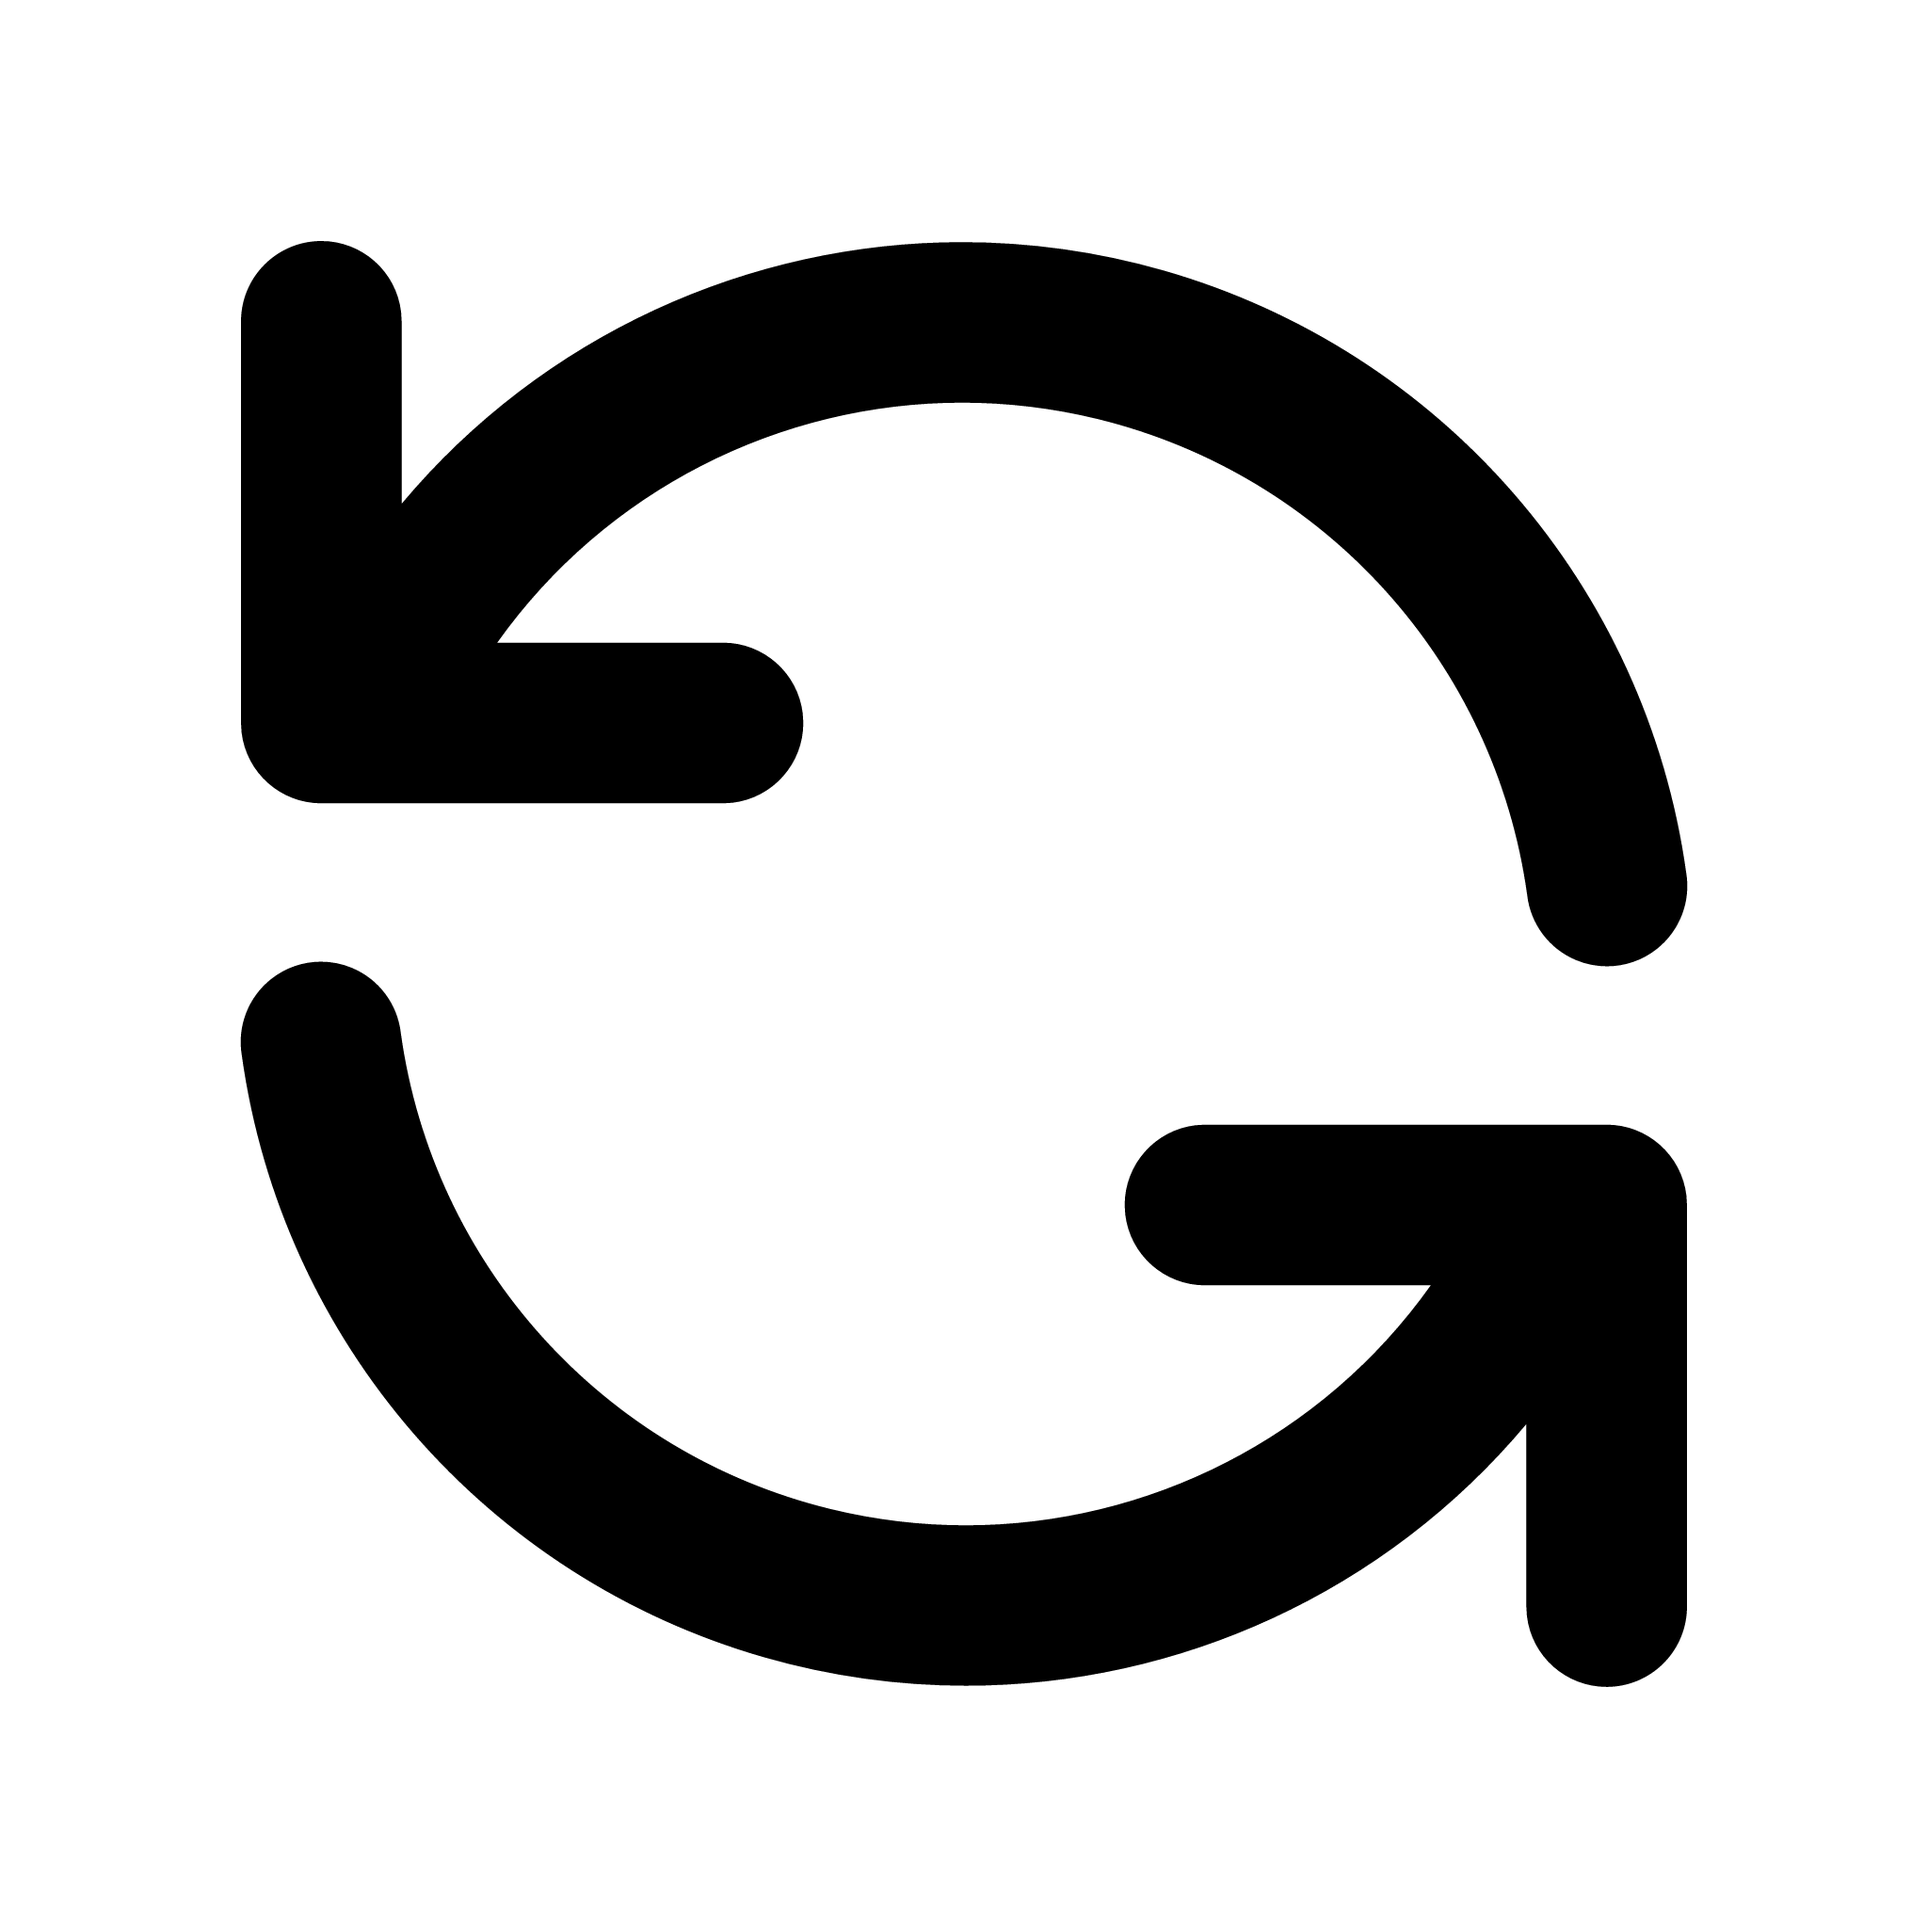
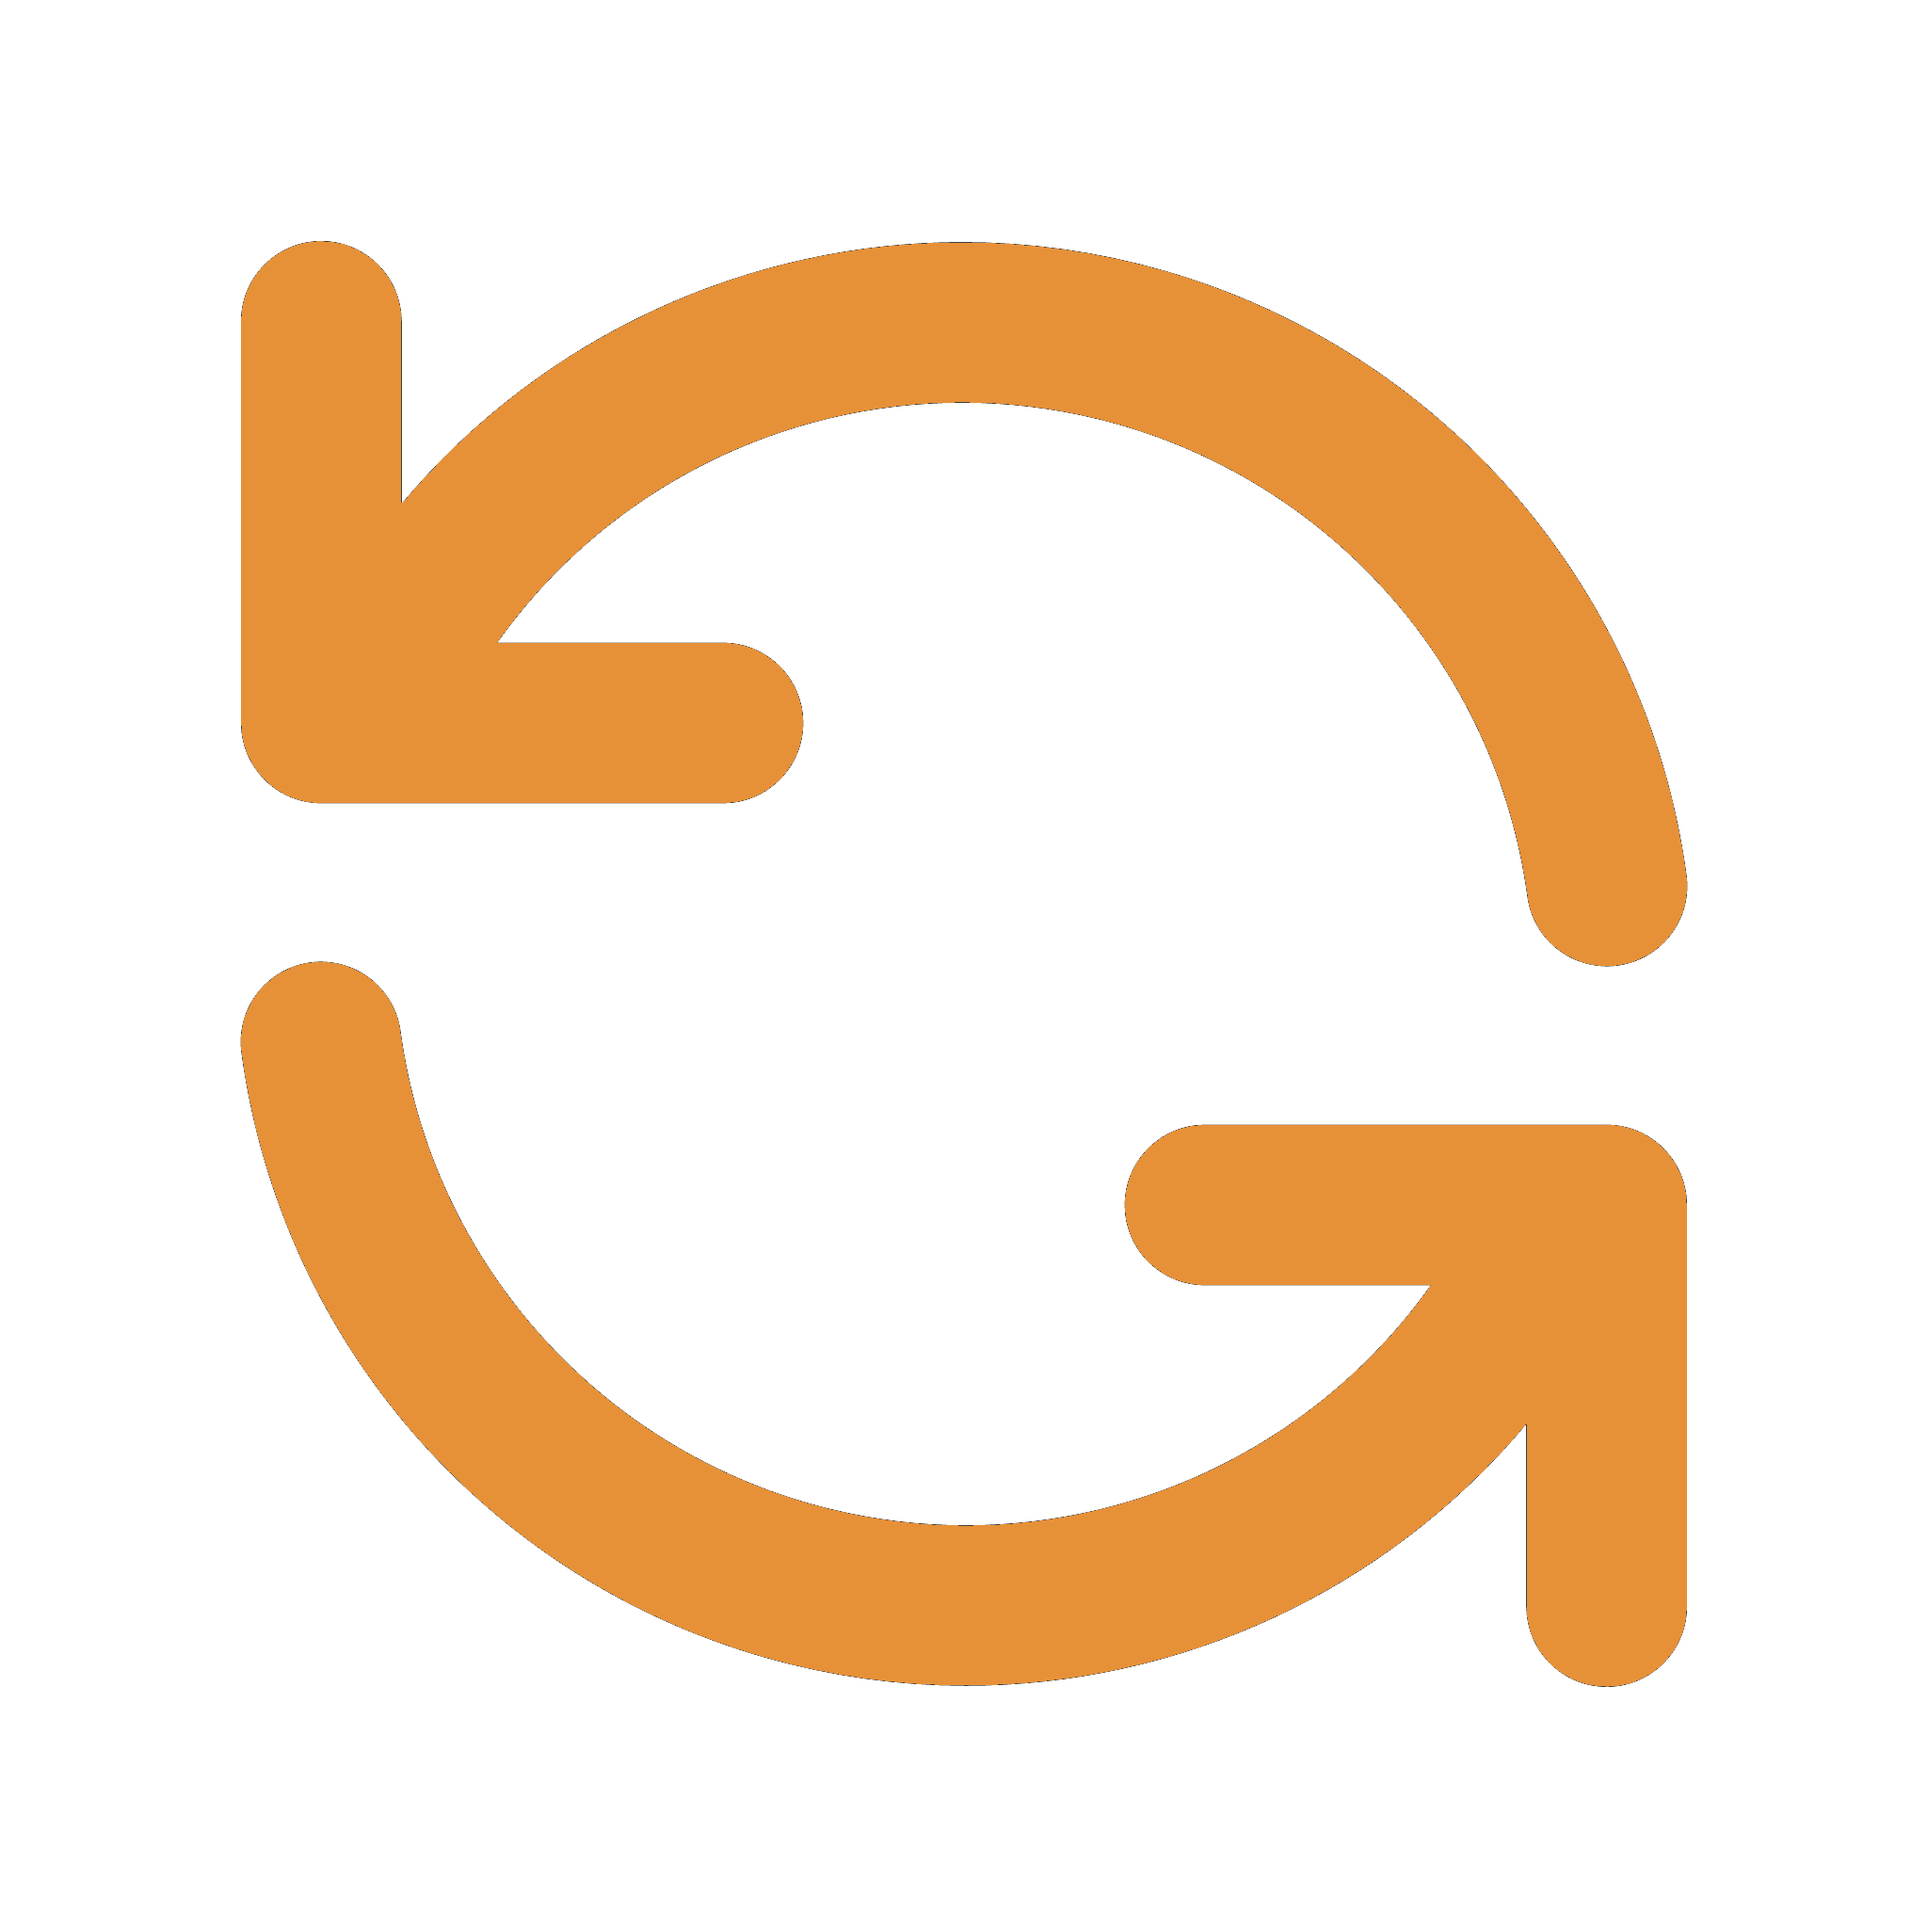
reload works now

Changed region(s): [[0.125, 0.5, 0.875, 0.875], [0.125, 0.125, 0.875, 0.5]]

diff --git a/load_games.js b/load_games.js
@@ -87,11 +87,17 @@ async function loadCategories() {
         }
 
         // Add "Reload" button next to categories
-        const reloadButton = document.createElement('reload');
+        const reloadButton = document.createElement('button'); 
         const reloadImg = document.createElement('img');
-        reloadImg.src = 'chillest-gamess/assets/reload.png';
-        reloadImg.width = 20;
+
+        // 1. Corrected file name
+        reloadImg.src = 'assets/refresh.png'; 
+        reloadImg.width = 15;
+
         reloadButton.title = 'Reload categories and games';
+        reloadButton.className = 'reload-btn'; 
+
+        // 2. Fixed syntax and removed duplicate logic
         reloadButton.addEventListener('click', () => {
             if (selectedCategory === 'All') {
                 loadAllGames();
@@ -101,12 +107,15 @@ async function loadCategories() {
                 loadCategories();
             }
         });
-        categoriesContainer.appendChild(reloadButton);
+
+        // Append the image to the button FIRST, then the button to the container
         reloadButton.appendChild(reloadImg);
+        categoriesContainer.appendChild(reloadButton);
 
         // Load all games by default
         selectedCategory = 'All';
         loadAllGames();
+
     } catch (error) {
         console.error('Error loading categories:', error);
         categoriesContainer.innerHTML = '<p>Error loading categories.</p>';
@@ -114,34 +123,73 @@ async function loadCategories() {
 }
 
 async function loadGames(category) {
+    // 1. Fail-safe checks for your config variables
+    const owner = typeof repoOwner !== 'undefined' ? repoOwner : 'YOUR_DEFAULT_OWNER';
+    const repo = typeof repoName !== 'undefined' ? repoName : 'YOUR_DEFAULT_REPO';
+
+    if (!category) {
+        console.error("loadGames failed: 'category' parameter is missing or undefined.");
+        gamesGrid.innerHTML = '<p>Error: No category provided.</p>';
+        return;
+    }
+
     try {
-        const response = await fetch(`https://api.github.com/repos/${repoOwner}/${repoName}/contents/games/${category}`);
+        // 2. Build URL safely
+        const apiUrl = `https://api.github.com/repos/${owner}/${repo}/contents/games/${category}`;
+        
+        // 3. Execute Fetch
+        const response = await fetch(apiUrl);
+        
         if (!response.ok) {
-            throw new Error(`GitHub API returned ${response.status}`);
+            // Check if you hit GitHub's unauthenticated rate limit (60 requests/hour)
+            if (response.status === 403) {
+                throw new Error("GitHub API rate limit exceeded. Try again later.");
+            }
+            throw new Error(`GitHub API returned status: ${response.status}`);
         }
 
         const data = await response.json();
+        // Filter only HTML files
         const gameFiles = data.filter(item => item.type === 'file' && item.name.endsWith('.html'));
 
-        allGameItems = [];
-        gamesGrid.innerHTML = '';
+        // Fix: Explicitly declare allGameItems if not done globally
+        allGameItems = []; 
+        gamesGrid.innerHTML = ''; // Clear the grid for incoming items
 
         for (const item of gameFiles) {
             const gameFile = item.name;
-            const gameName = gameFile.slice(0, -5);
+            const gameName = gameFile.slice(0, -5); // Removes '.html'
             const prettyName = gameName.replace(/[-_]/g, ' ');
             const gameUrl = `${basePagesUrl}games/${category}/${gameFile}`;
             const iconUrl = `${baseRawUrl}icons/${gameName}.png`;
 
+            // Create the element
             const gameItem = createGameItem(prettyName, iconUrl, () => loadGame(gameUrl, gameFile));
-            allGameItems.push({ gameName: gameName.toLowerCase(), element: gameItem });
-            gamesGrid.appendChild(gameItem);
+            
+            // Push to our master tracking array
+            allGameItems.push({ 
+                gameName: gameName.toLowerCase(), 
+                prettyName: prettyName.toLowerCase(), // Helpful for search indexing
+                element: gameItem 
+            });
         }
 
-        filterGames(searchInput.value || '');
+        // Check if there's an active search query
+        const searchQuery = searchInput ? searchInput.value.trim() : '';
+        
+        if (searchQuery) {
+            // If user is searching, let the filter function handle what gets appended
+            filterGames(searchQuery);
+        } else {
+            // If no search, append all items efficiently using a DocumentFragment
+            const fragment = document.createDocumentFragment();
+            allGameItems.forEach(item => fragment.appendChild(item.element));
+            gamesGrid.appendChild(fragment);
+        }
+
     } catch (error) {
         console.error('Error loading games:', error);
-        gamesGrid.innerHTML = '<p>Error loading games.</p>';
+        gamesGrid.innerHTML = '<p class="error-msg">Error loading games. Please try again.</p>';
     }
 }
 

diff --git a/style.css b/style.css
@@ -175,8 +175,8 @@ p{
     padding: 8px 16px;
     background: rgba(255, 255, 255, 0.1);
     color: #e69138;
-    border: 1px solid rgba(230, 145, 56, 0.5);
-    border-radius: 5px;
+    border: 1px solid #e69138;
+    border-radius: 999px;
     cursor: pointer;
     font-family: 'jetbrains mono', monospace;
     font-size: 14px;
